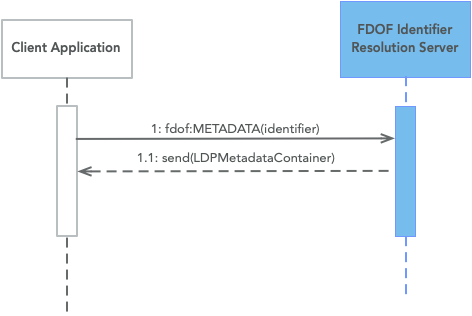
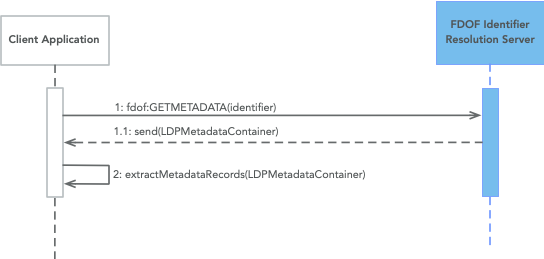
Updated text and figures about the metadata access mechanism.

diff --git a/index.html b/index.html
@@ -304,7 +304,7 @@
 				<p>Figure 2 depicts a simplified model for FAIR Digital Objects in the FDOF. When a digital object (bit sequence) is identified by a globally unique, persistent and resolvable identifier, characterised by the FDOF typing system and described by metadata records, we can say that we have a FAIR Digital Object.</p>
 			
 				<figure>
-					<p><img src="images/FDO_simplified.png" alt="FDO simplified model"/></p>
+					<p><img src="images/diagrams/FDO_simplified.png" alt="FDO simplified model"/></p>
 					<figcaption><span class="marker">Figure 2</span> Simplified model of FAIR Digital Objects</figcaption>
 				</figure>
             
@@ -325,7 +325,7 @@
 					<p>The FDOF-IR is, of course, a specific type of metadata, as depicted in Figure 3. In FDOF we opted to differentiate the three pieces of metadata information contained in the IR from other types of metadata information (e.g., provenance, keys, serialization format, size, etc.). The reason behind this differentiation is to separate the minimal information required by the infrastructure to the additional information that can be used by applications, agreed upon by communities, etc. In this way, we can guarantee that any FDOF-enabled application is able to identify the type of the object (through the reference to the object's type), directly operate on the object (through the object's location reference) or get more information about the object (through reference(s) to the object's metadata record(s)). Other information about the object <strong>SHOULD</strong> be placed in the metadata record(s).</p>
             
                     <figure>
-						<p><img src="images/FDOF-IR.png" alt="FDOF-IR"/></p>
+						<p><img src="images/diagrams/FDOF-IR.png" alt="FDOF-IR"/></p>
 						<figcaption><span class="marker">Figure 3</span> The FDOF Identifier Record</figcaption>
 					</figure>
             
@@ -335,7 +335,7 @@
 					<p>As depicted on Figure 4, the FDOF-IR can be resolved from the object's identifier and present its content using specific predicates to relate the object with its type, its metadata record(s) and its location(s). Moreover, the FDOF does not only provide methods to guarantee a predictable resolution behaviour for the identifier resolution but also defines the format to guarantee predicatability of the metadata presentation format. Therefore, the FDOF-IR <strong>MUST</strong> be presented as RDF, minimally using the Turtle and JSON-LD syntaxes. This requirement allows not only a predictability of the identifier resolution behaviour but also of the serialisation format of the FDOF-IR, facilitating the implementation of client applications. These client applications would expect to retrieve a FDOF-IR as result of the identifier resolution and can be coded to parse and interpret RDF documents. The choice for RDF as the presentation format for the Identifier Record (and the other types of metadata records) is due to the support of RDF to explicitly provied semantic annotations together with the data content. In this way, the FDOF supports improvements in semantic interoperability and machine actionability.</p>
 
 					<figure>
-						<p><img src="images/FDOF-IR_resolution.png" alt="FDOF-IR"/></p>
+						<p><img src="images/diagrams/FDOF-IR_resolution.png" alt="FDOF-IR"/></p>
 						<figcaption><span class="marker">Figure 4</span> The FDOF identifier resolution behaviour</figcaption>
 					</figure>
             
@@ -407,7 +407,7 @@
 			
 					<p>With such an important role in the FAIR principles, the FDOF naturally provides support for the digital object's metadata. Part of this support comes from the FDOF's metadata access mechanism. In order to facilitate the access to the metadata for client applications, the FDOF provides a common metadata access mechanism so that applications can request access to the metadata of the digital object given its identifier. The usage scenario that illustrates the intended support is that once an identifier has been found, the client application (or its user) may need to gather more information about the identified digital object before deciding whether to deal with the actual object. A common mechansim for such access is important to facilitate interoperability in the sense that any FDOF-enabled client application knows how to access an object's metadata instead of leaving to every services to define their own access mechanisms.</p>
 			
-					<p>As described in <a href="#fdofresprot">section 3.1.1</a> and depicted in Figure 3, the client application can directly request the metadata of the object from its identifier using the <strong>METADATA</strong> method. This method returns a LDP container representation containing the identifiers of all known metadata records for that object.</p>
+					<p>As described in <a href="#fdofresprot">section 3.1.1</a> and depicted in Figure 4, the client application can directly request the metadata record(s) of the object from its identifier using the <strong>GETMETADATA</strong> method. This method returns a LDP container representation containing the containment structure having as members all known metadata records for that object.</p>
 			
 					<figure>
 						<p><img src="images/diagrams/directmetadataaccess_sequence.png" alt="direct metadata access"/></p>
@@ -436,7 +436,7 @@
                     <p>Since different types of digital objects may be described with different sets of properties, the FDOF typing system can determine specific metadata schemas for specific FDO types, as depicted in Figure 5. A metadata schema defines which properties must or may be present in a given metadata record. One can argue that we will never be able to define a metadata schema that includes all possible properties that are needed for all applications of the metadata. Therefore, in the FDOF, the metadata schemas associated with FDO types define a minimal set of properties. This minimal set of properties guarantee a level of predictability so that users (humans or machines) can expect these properties to be available as descriptors of a FDO of a given type. Naturally, communities, users, object providers or any other stakeholder can add more properties and/or define additional metadata schemas for the FDOs. The more properties, the richer are the metadata records. Once again, the FDOF's type-specific metadata schemas define just a base set of properties that can, and should, be augmented.</p>
 
                     <figure>
-                        <p><img src="images/FDO_simplifiedwithmetadataschema.png" alt="FDO simplified model with metadata schema"/></p>
+                        <p><img src="images/diagrams/FDO_simplifiedwithmetadataschema.png" alt="FDO simplified model with metadata schema"/></p>
                         <figcaption><span class="marker">Figure 5</span> FDO types and metadata schemas</figcaption>
                     </figure>
 
